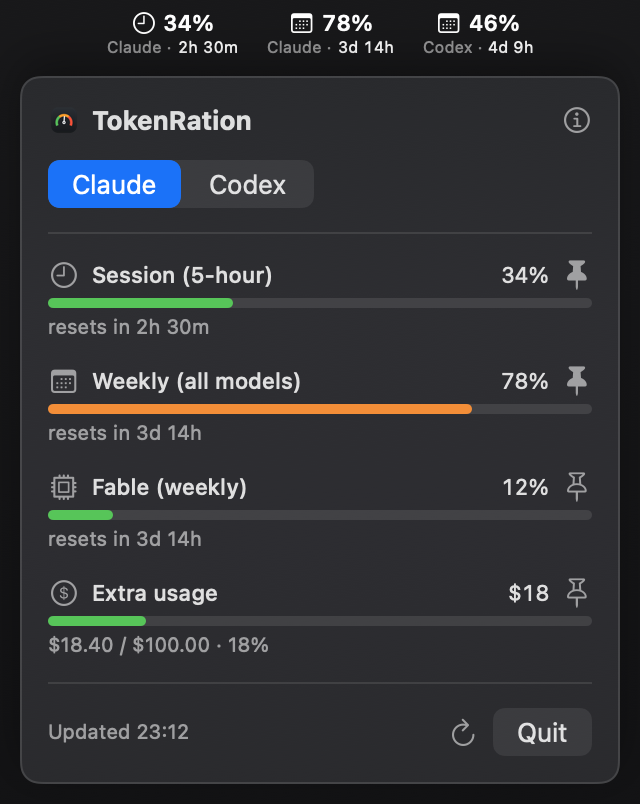
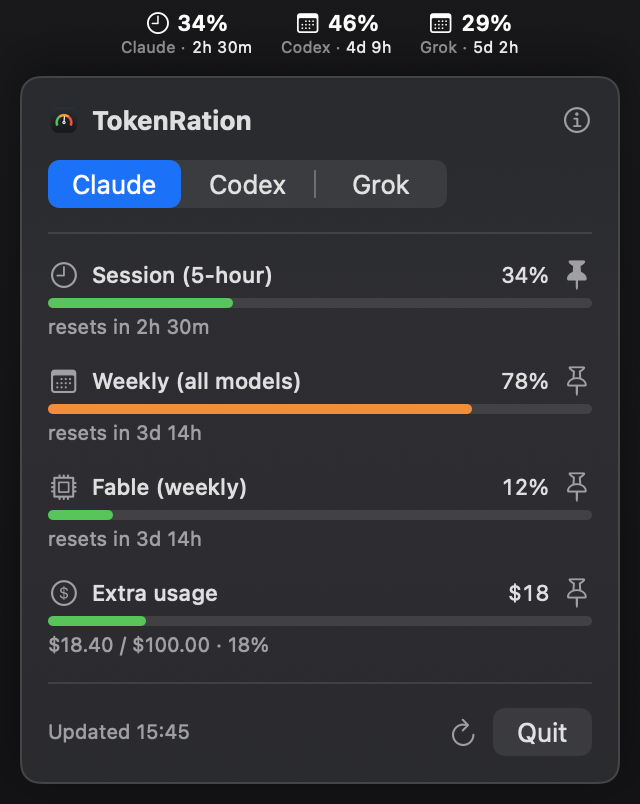
Show the Grok tab in the README screenshots

diff --git a/README.md b/README.md
@@ -4,7 +4,7 @@ A native macOS menu-bar app that shows your **Claude**, **Codex** and **Grok** u
 
 Pin one metric for a single icon, or several to stack them. Each kind of limit has the same icon whichever app it comes from, and when you pin metrics from more than one app, each names its app ahead of its countdown, with its icon moving up beside the value to make room. All icons are template images, so they look right on light and dark menu bars. When more than one provider is set up, the panel gets a tab each.
 
-<img src="docs/panel-claude.png" alt="Panel on the Claude tab: session, weekly, per-model and spend meters, with three metrics pinned to the menu bar above" width="49%"> <img src="docs/panel-codex.png" alt="Panel on the Codex tab: session and weekly windows" width="49%">
+<img src="docs/panel-claude.png" alt="Panel on the Claude tab: session, weekly, per-model and spend meters, with a metric from each app pinned to the menu bar above" width="32%"> <img src="docs/panel-codex.png" alt="Panel on the Codex tab: session and weekly windows" width="32%"> <img src="docs/panel-grok.png" alt="Panel on the Grok tab: the weekly allowance and on-demand spend" width="32%">
 
 ## Install
 
